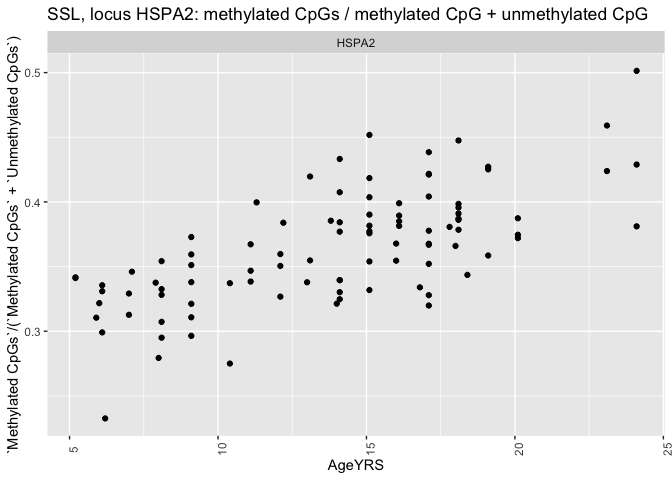
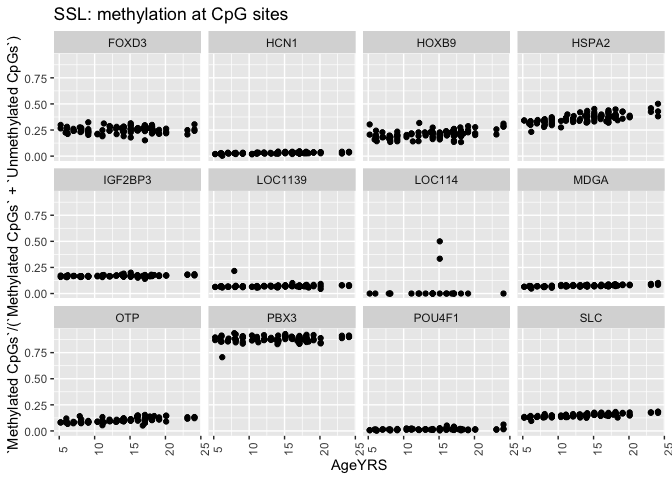
small changes.

diff --git a/Rmd/singleplex_test.md b/Rmd/singleplex_test.md
@@ -5,7 +5,9 @@ diana baetscher
 
 # Quick look at methylation patterns in targeted loci for Steller Sea Lions
 
-Bismarck output from Charles for 11/12 loci
+Bismarck output from Charles for 12 loci amplified and barcoded
+individually and then sequenced with the MiSeq V3 paired-end, 2x75 bp
+sequencing.
 
 ``` r
 library(tidyverse)
@@ -63,7 +65,47 @@ sample_df <- data %>%
     ## 7, 8, 9, 10, 11, 12, 13, 14, 15, 16, 17, 18, 19, 20, ...].
 
 ``` r
-sample_df %>%
+loc114 <- read_csv("../data/Loci114_bismark_summary.csv") 
+```
+
+    ## Rows: 95 Columns: 15
+    ## ── Column specification ────────────────────────────────────────────────────────
+    ## Delimiter: ","
+    ## chr  (1): File
+    ## dbl (12): Total Reads, Aligned Reads, Unaligned Reads, Ambiguously Aligned R...
+    ## lgl  (2): Duplicate Reads (removed), Unique Reads (remaining)
+    ## 
+    ## ℹ Use `spec()` to retrieve the full column specification for this data.
+    ## ℹ Specify the column types or set `show_col_types = FALSE` to quiet this message.
+
+``` r
+loc114_df <- loc114 %>%
+  mutate(File = str_replace(File, "./", "")) %>%
+  separate(File, into = c("sample", "toss"), sep = "_S") %>%
+  select(-toss) %>%
+  mutate(locus = "LOC114") %>%
+  select(sample, locus, everything())
+
+# and then combine with the sample df
+ssl_bismark_output <- loc114_df %>%
+  bind_rows(sample_df)
+```
+
+``` r
+ssl_bismark_output %>%
+  ggplot(aes(x = sample, y = `Total Reads`)) +
+  geom_point() +
+  facet_wrap(.~locus) +
+  theme(
+    axis.text.x = element_blank()
+  ) 
+```
+
+![](singleplex_test_files/figure-gfm/sequencing-depth-across-loci-1.png)<!-- -->
+Plenty of sequencing, even though it varies by locus.
+
+``` r
+ssl_bismark_output %>%
   ggplot(aes(x = sample, y = `Aligned Reads`/`Total Reads`)) +
   geom_point() +
   facet_wrap(.~locus) +
@@ -73,44 +115,28 @@ sample_df %>%
   labs(title = "SSL: on-target reads by locus")
 ```
 
-![](singleplex_test_files/figure-gfm/unnamed-chunk-1-1.png)<!-- -->
+![](singleplex_test_files/figure-gfm/on-target-reads-1.png)<!-- -->
 
 ``` r
-sample_df %>%
+ssl_bismark_output %>%
   ggplot(aes(x = sample, y = `Methylated CpGs`/(`Methylated CpGs` + `Unmethylated CpGs`))) +
   geom_point() +
   facet_wrap(.~locus, scales = "free") +
   theme(
     axis.text.x = element_blank()
   ) +
-  labs(title = "SSL: methylated CpGs / methylated CpG + unmethylated CpG")
+  labs(title = "SSL: Methylation at CpG sites")
 ```
 
-![](singleplex_test_files/figure-gfm/unnamed-chunk-2-1.png)<!-- -->
+    ## Warning: Removed 69 rows containing missing values or values outside the scale range
+    ## (`geom_point()`).
 
-It doesn’t look like a ton of variation in methylation level across
-samples within a locus. Let’s look at HSPA2 closer as an example.
+![](singleplex_test_files/figure-gfm/looking-at-CpG-sites-1.png)<!-- -->
 
-``` r
-sample_df %>%
-  filter(locus == "HSPA2") %>%
-  ggplot(aes(x = sample, y = `Methylated CpGs`/(`Methylated CpGs` + `Unmethylated CpGs`))) +
-  geom_point() +
-  facet_wrap(.~locus) +
-  theme(
-    axis.text.x = element_text(angle = 90)
-  ) +
-  labs(title = "SSL, locus HSPA2: methylated CpGs / methylated CpG + unmethylated CpG")
-```
-
-![](singleplex_test_files/figure-gfm/unnamed-chunk-3-1.png)<!-- -->
-Actually, that’s a decent spread: \<25% methylated CpGs to \>50% CpGs.
-
-Is it correlated with age though?
+Is methylation level correlated with age? Add some metadata to explore…
 
 ``` r
-sample_df %>%
-  filter(locus == "HSPA2") %>%
+ssl_bismark_output %>%
   left_join(., metadata, by = c("sample" = "ABLG")) %>%
   ggplot(aes(x = AgeYRS, y = `Methylated CpGs`/(`Methylated CpGs` + `Unmethylated CpGs`))) +
   geom_point() +
@@ -118,25 +144,32 @@ sample_df %>%
   theme(
     axis.text.x = element_text(angle = 90)
   ) +
-  labs(title = "SSL, locus HSPA2: methylated CpGs / methylated CpG + unmethylated CpG")
+  labs(title = "SSL: methylation at CpG sites")
 ```
 
-![](singleplex_test_files/figure-gfm/add-metadata-1.png)<!-- --> Cool!
-Looks like there’s information in that locus.
+    ## Warning: Removed 69 rows containing missing values or values outside the scale range
+    ## (`geom_point()`).
 
-Let’s look at the rest?
+![](singleplex_test_files/figure-gfm/add-metadata-1.png)<!-- --> Very
+different background methylation levels at each locus, which sort of
+obscures patterns within each locus.
 
 ``` r
-sample_df %>%
+ssl_bismark_output %>%
   left_join(., metadata, by = c("sample" = "ABLG")) %>%
   ggplot(aes(x = AgeYRS, y = `Methylated CpGs`/(`Methylated CpGs` + `Unmethylated CpGs`))) +
   geom_point() +
   facet_wrap(.~locus, scales = "free") +
   theme(
-    axis.text.x = element_text(angle = 90)
+    axis.text.x = element_text(angle = 90, vjust = 0.5),
+    axis.title.x = element_text(margin = margin(t = 10))
   ) +
-  labs(title = "SSL: methylated CpGs / methylated CpG + unmethylated CpG")
+  labs(title = "SSL: methylation at CpGs sites",
+        y = "Methylated CpGs / CpG sites")
 ```
+
+    ## Warning: Removed 69 rows containing missing values or values outside the scale range
+    ## (`geom_point()`).
 
 ![](singleplex_test_files/figure-gfm/plot-all-loci-1.png)<!-- -->
 
@@ -144,8 +177,13 @@ sample_df %>%
 ggsave("outputs/Methylated_CpGs_by_locus.png", width = 10, height = 8)
 ```
 
+    ## Warning: Removed 69 rows containing missing values or values outside the scale range
+    ## (`geom_point()`).
+
+Are the outliers consistent across loci?
+
 ``` r
-sample_df %>%
+ssl_bismark_output %>%
   filter(locus == "LOC1139" & `Methylated CpGs`/(`Methylated CpGs` + `Unmethylated CpGs`) > 0.2) %>%
   left_join(., metadata, by = c("sample" = "ABLG")) %>%
   ggplot(aes(x = AgeYRS, y = `Methylated CpGs`/(`Methylated CpGs` + `Unmethylated CpGs`), color = sample)) +
@@ -157,10 +195,10 @@ sample_df %>%
   labs(title = "SSL: methylated CpGs / methylated CpG + unmethylated CpG")
 ```
 
-![](singleplex_test_files/figure-gfm/unnamed-chunk-4-1.png)<!-- -->
+![](singleplex_test_files/figure-gfm/check-outliers-1.png)<!-- -->
 
 ``` r
-sample_df %>%
+ssl_bismark_output %>%
   mutate(outlier = ifelse(sample == "37207", "37207", "no")) %>%
   left_join(., metadata, by = c("sample" = "ABLG")) %>%
   ggplot(aes(x = AgeYRS, y = `Methylated CpGs`/(`Methylated CpGs` + `Unmethylated CpGs`), color = outlier)) +
@@ -169,7 +207,36 @@ sample_df %>%
   theme(
     axis.text.x = element_text(angle = 90)
   ) +
-  labs(title = "SSL: methylated CpGs / methylated CpG + unmethylated CpG")
+  labs(title = "SSL: methylation at CpG sites",
+       y = "Methylated CpGs / CpG sites")
 ```
 
-![](singleplex_test_files/figure-gfm/unnamed-chunk-5-1.png)<!-- -->
+    ## Warning: Removed 69 rows containing missing values or values outside the scale range
+    ## (`geom_point()`).
+
+![](singleplex_test_files/figure-gfm/check-outliers-across-loci-1.png)<!-- -->
+
+``` r
+ssl_bismark_output %>%
+  filter(locus == "LOC114") %>%
+  left_join(., metadata, by = c("sample" = "ABLG")) %>%
+  ggplot(aes(x = AgeYRS, y = `Methylated CpGs`/(`Methylated CpGs` + `Unmethylated CpGs`))) +
+  geom_point() +
+  facet_wrap(.~locus, scales = "free") +
+  theme(
+    axis.text.x = element_text(angle = 90)
+  )
+```
+
+    ## Warning: Removed 69 rows containing missing values or values outside the scale range
+    ## (`geom_point()`).
+
+![](singleplex_test_files/figure-gfm/double-check-if-loc114-has-no-methylated-CpGs-1.png)<!-- -->
+
+Output combined bismark output df for Simon, but return to the analysis
+later.
+
+``` r
+ssl_bismark_output %>%
+  write_csv("outputs/SSL_singleplex_bismark_output.csv")
+```
